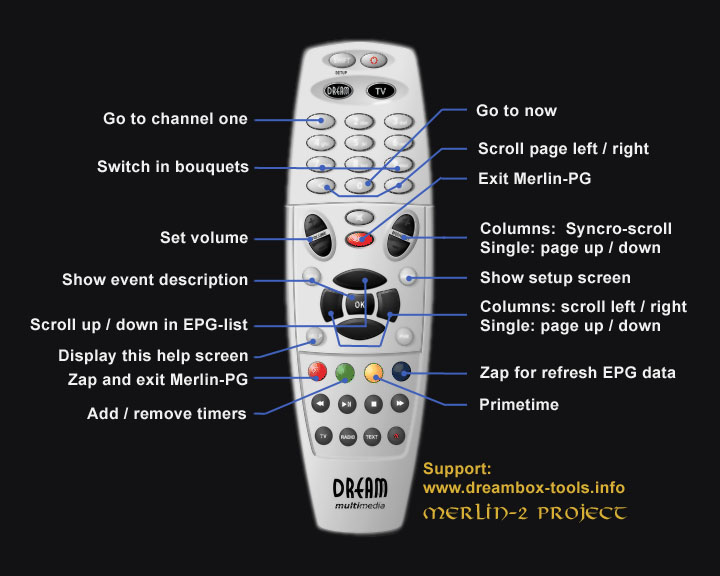
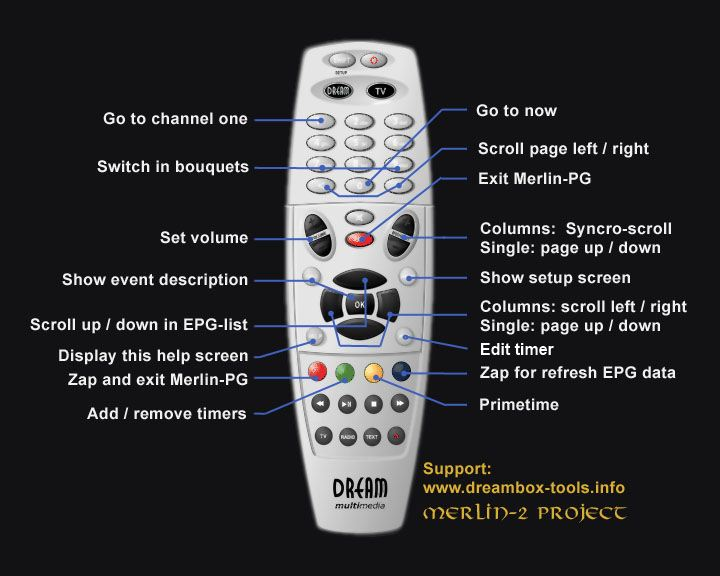
edit timer posibility by pressing pvr/vodeo button

diff --git a/merlinepg/src/plugin.py b/merlinepg/src/plugin.py
@@ -299,7 +299,7 @@ class Merlin_PGII(Screen):
 		self["epg_list2"] = MerlinEPGList(type = EPG_TYPE_SINGLE, selChangedCB = self.onSelectionChanged, timer = session.nav.RecordTimer)
 		self["epg_list3"] = MerlinEPGList(type = EPG_TYPE_SINGLE, selChangedCB = self.onSelectionChanged, timer = session.nav.RecordTimer)
 		self["epg_list4"] = MerlinEPGList(type = EPG_TYPE_SINGLE, selChangedCB = self.onSelectionChanged, timer = session.nav.RecordTimer)
-		self["actions"] = ActionMap(["OkCancelActions", "EPGSelectActions", "DirectionActions", "ColorActions", "MenuActions", "NumberActions", "HelpActions"], {
+		self["actions"] = ActionMap(["OkCancelActions", "EPGSelectActions", "DirectionActions", "ColorActions", "MenuActions", "NumberActions", "HelpActions", "InfobarActions"], {
 						"ok": self.UserOK, 
 						"cancel": self.close,
 						"nextBouquet": self.AllUp,
@@ -324,7 +324,8 @@ class Merlin_PGII(Screen):
 						"0": self.go2now,
 						"1": self.go2first,
 						"7": self.findPrvBqt,
-						"9": self.findNextBqt
+						"9": self.findNextBqt,
+						"showMovies": self.editCurTimer
 						},-2)
 		self.onLayoutFinish.append(self.onLayoutReady)
 
@@ -637,6 +638,18 @@ class Merlin_PGII(Screen):
 		else:
 			self.showConfirmedInfo([None,"Ei"])
 
+	def editCurTimer(self):
+		cur = self["epg_list"+str(self.ActiveEPG)].getCurrent()
+		event = cur[0]
+		serviceref = cur[1]
+		if event is None:
+			return
+		eventid = event.getEventId()
+		refstr = serviceref.ref.toString()
+		for timer in self.session.nav.RecordTimer.timer_list:
+			if timer.eit == eventid and timer.service_ref.ref.toString() == refstr:
+				self.session.open(TimerEntry, timer)
+
 
 
 class Merlin_PGd(Screen):
@@ -708,7 +721,7 @@ class Merlin_PGd(Screen):
 		self["fullEventInfo"] = Label(" ")
 		self["prg_list"] = MenuList(self.getChannels())
 		self["epg_list"] = EPGList(type = EPG_TYPE_SINGLE, selChangedCB = self.onSelectionChanged, timer = session.nav.RecordTimer)
-		self["actions"] = ActionMap(["OkCancelActions", "EPGSelectActions", "ColorActions", "DirectionActions", "MenuActions", "HelpActions"], {
+		self["actions"] = ActionMap(["OkCancelActions", "EPGSelectActions", "ColorActions", "DirectionActions", "MenuActions", "HelpActions", "InfobarActions"], {
 									"ok": self.ok, 
 									"cancel": self.close,
 									"nextBouquet": self.prgDown,
@@ -730,6 +743,7 @@ class Merlin_PGd(Screen):
 									"upRepeated": self.up,
 									"down": self.down,
 									"downRepeated": self.down,
+									"showMovies": self.editCurTimer
 									},-2)
 		self.onLayoutFinish.append(self.onLayoutReady)
 
@@ -895,6 +909,18 @@ class Merlin_PGd(Screen):
 
 	def right(self):
 		self["epg_list"].instance.moveSelection(self["epg_list"].instance.pageDown)
+
+	def editCurTimer(self):
+		cur = self["epg_list"].getCurrent()
+		event = cur[0]
+		serviceref = cur[1]
+		if event is None:
+			return
+		eventid = event.getEventId()
+		refstr = serviceref.ref.toString()
+		for timer in self.session.nav.RecordTimer.timer_list:
+			if timer.eit == eventid and timer.service_ref.ref.toString() == refstr:
+				self.session.open(TimerEntry, timer)
 
 
 
